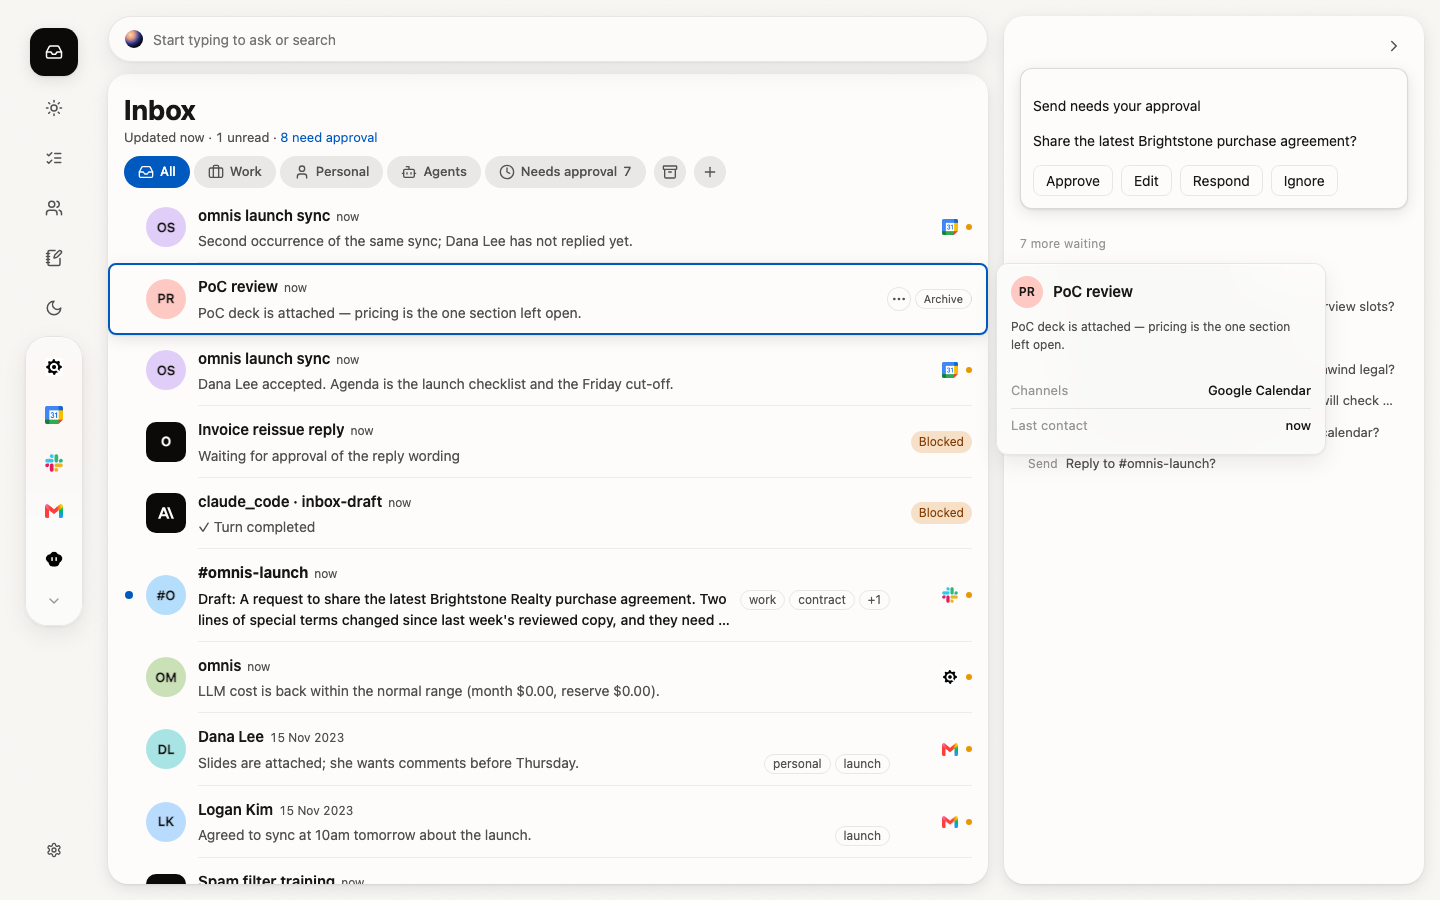
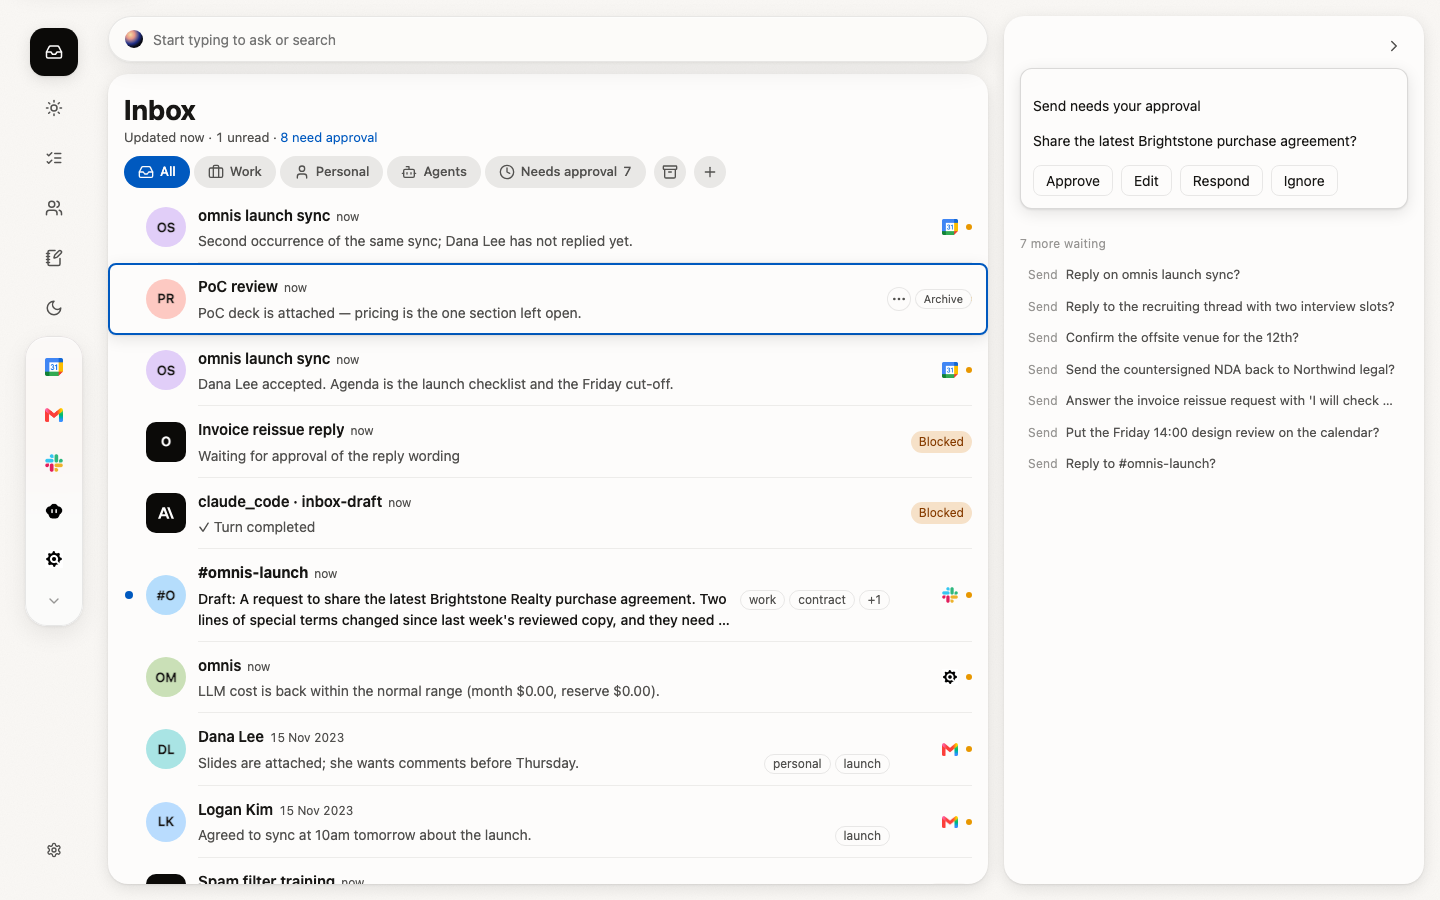
loop-r1-03: Keyboard triage: j/k move, e archives and advances
Attempt 2. Fixes the two rejections on the previous attempt, and re-verifies
the whole acceptance.

The hover card is a pointer affordance again. Radix's HoverCardTrigger opens
on `focus` as well as on `pointerenter`, so once `j`/`k` began moving the real
focus from row to row, every move that rested 400ms opened a PersonCard over
the detail pane — the approval queue a keyboard-first triager is reading,
covered by the card of the row they had just landed on. `HoverCard.Root` is
now controlled: `open` is raised by the pointer and by nothing else, and
closing is always honoured. The delays stay Radix's, so the pointer path is
unchanged. Two RTL assertions pin both halves: `j` does not render the card
(it fails without the guard — verified), and a pointer still does.

The list is reachable from a cold load in 2 interactions. The raw Tab-only
trail was 28 stops, and every one of them above the list is a real control
(twelve rail tiles, the ask bar's input and its two composer buttons, the open
panel's two tabs and its Close, the approval-queue button, seven filter pills),
so none of them can be taken out of the tab order without removing a control.
A skip link is the standard answer for content behind chrome: one Tab, one
activation, and the focus is on the listbox with the whole j/k grammar live.
It is the shell's first stop, off-screen until focused, and drawn only on the
Inbox because `#inbox-list` is the only thing it can point at.
[…]

Changed region(s): [[0.6875, 0.28, 0.9062, 0.4978], [0.0312, 0.4044, 0.0625, 0.4667], [0.0312, 0.56, 0.0625, 0.5911]]

diff --git a/tools/e2e/shots-loop-r1-03.ts b/tools/e2e/shots-loop-r1-03.ts
@@ -18,11 +18,11 @@
 //   1440  the keyboard triage itself: `j` `j` `j` then `e` `e` `e`, three distinct ids on the wire,
 //         the list three rows shorter, and the focus ring measured off the computed style of the
 //         row rather than read out of the stylesheet (NC-28).
-//   1440  Tab into the list and straight back out: the list is one stop rather than one per row plus
-//         two more on each (NC-18). The count from a cold load is logged with its whole trail, and it
-//         is dominated by the rail, the ask panel and the filter chips — chrome this story does not
-//         own. What it does own is measured instead: arriving lands on a row, and the next press
-//         leaves the list, so the presses needed to cross it no longer grow with the row count.
+//   1440  reaching the list from a cold load, in under 12 interactions (NC-18). Two walks: the raw
+//         Tab-only trail, logged stop by stop and asserted to start on the skip link, and the
+//         journey a keyboard user actually takes — one Tab to the skip link, one activation — which
+//         is the number the assertion is on. Plus the list's own stop count: one Tab in, one out,
+//         however many rows there are.
 //   390   the phone tier: a row tapped, the sheet's `‹ Inbox`, and the flat tint the selected row
 //         keeps under it (v3 §a.1).
 import { mkdirSync } from "node:fs";
@@ -125,14 +125,19 @@ const BLUR_PROBE =
 
 /** What the focus is on, in words, for the Tab trail. Every stop is logged: the number is the
  *  assertion but the trail is the evidence, and a count of 9 that got there through five rail
- *  buttons is a different result from one that got there through five rows. */
+ *  buttons is a different result from one that got there through five rows.
+ *  `inList` is `closest('[role="listbox"]')`, not `closest(".inbox-row")` — the skip link's target
+ *  is the listbox itself, and the acceptance is about reaching the list rather than about landing
+ *  on a particular row. `skipLink` is how the walk below knows it has met the shortcut. */
 const FOCUS_PROBE = `(() => {
   const el = document.activeElement;
-  if (!(el instanceof HTMLElement)) return { what: "nothing focused", inRow: false };
+  if (!(el instanceof HTMLElement)) return { what: "nothing focused", inRow: false, inList: false, skipLink: false };
   return {
     what: el.getAttribute("aria-label") || el.className || el.tagName,
     tag: el.tagName,
     inRow: el.closest(".inbox-row") !== null,
+    inList: el.closest('[role="listbox"]') !== null,
+    skipLink: el.classList.contains("skip-link"),
     threadId: el.getAttribute("data-thread-id"),
   };
 })()`;
@@ -327,52 +332,104 @@ async function main(): Promise<void> {
     }
     console.log(`  the list is down to ${after.length} rows, and no archived id is among them`);
 
-    // ---- 1440: the tab stop count -----------------------------------------------------------------
-    // NC-18: 27 Tabs from the ask bar to the pane, three per row. The assertion is on the whole
-    // journey from a cold load, and every stop is logged, because "9" reached through five rail
-    // buttons is a different answer from "9" reached through five rows.
-    console.log("1440 — Tab into the list, and straight back out");
-    const tabs = await browser.newPage({ viewport: WIDE });
-    await open(tabs);
-    let presses = 0;
-    let landed: { what: string; inRow: boolean; threadId: string | null } = {
-      what: "nothing focused",
-      inRow: false,
-      threadId: null,
-    };
-    for (; presses < 60; presses++) {
-      await tabs.keyboard.press("Tab");
-      landed = (await tabs.evaluate(FOCUS_PROBE)) as typeof landed;
-      console.log(`  tab ${presses + 1}: ${landed.what}`);
-      if (landed.inRow) break;
+    // ---- 1440: reaching the list from a cold load ------------------------------------------------
+    // NC-18's acceptance number: fewer than 12 interactions from a cold load to the focus inside the
+    // list. Two walks, both from a cold load, because the two numbers answer different questions and
+    // only one of them can be asserted.
+    //
+    // The raw walk (Tab only, nothing activated) is the honest count of what stands between a
+    // keyboard user and the list, and it is logged with every stop named. It is NOT under 12, and it
+    // cannot be made under 12 by editing the tab order: every stop above the list is a real control
+    // — twelve rail tiles, the ask bar's input and its two composer buttons, the open panel's two
+    // tabs and its Close, the approval-queue button and seven filter pills. Removing any of them
+    // takes away a control, which is a different (and worse) bug than a long tab order. The first
+    // stop of this walk has to be the skip link, or the shortcut below is not a shortcut.
+    //
+    // The journey walk is the acceptance: Tab to the skip link and activate it, which is what a
+    // keyboard user does, and the focus lands in the list. The assertion is on the interactions that
+    // journey took, and it exits non-zero if it is not under 12.
+    console.log("1440 — reaching the list from a cold load: the raw Tab trail");
+    const raw = await browser.newPage({ viewport: WIDE });
+    await open(raw);
+    await raw.keyboard.press("Tab");
+    const firstStop = (await raw.evaluate(FOCUS_PROBE)) as { what: string; skipLink: boolean };
+    if (!firstStop.skipLink) {
+      throw new Error(
+        `the first Tab lands on "${firstStop.what}", not on the skip link — there is no way past the chrome`,
+      );
     }
-    if (!landed.inRow) {
-      throw new Error(`60 Tabs never reached a row (last stop: ${landed.what})`);
+    let rawTabs = 1;
+    for (; rawTabs < 60; rawTabs++) {
+      const stop = (await raw.evaluate(FOCUS_PROBE)) as { what: string; inList: boolean };
+      console.log(`  tab ${rawTabs}: ${stop.what}`);
+      if (stop.inList) break;
+      await raw.keyboard.press("Tab");
     }
-    // Landing *on a row* is the half of NC-18 that is about what the list is made of: the row is a
-    // stop, and neither of the two controls inside it is one.
-    if (landed.threadId === null) {
-      throw new Error(`the first stop inside the list is "${landed.what}", not a row`);
-    }
+    const lastStop = (await raw.evaluate(FOCUS_PROBE)) as { inList: boolean; what: string };
+    if (!lastStop.inList)
+      throw new Error(`60 Tabs never reached the list (last: ${lastStop.what})`);
     console.log(
-      `  tab ${presses + 1} is a row (${landed.threadId}) — the chrome before it is other stories'`,
+      `  ${rawTabs} Tabs by the long way round: that is the chrome above the list, not the list.`,
     );
 
-    // ...and the half that is about how many stops the list has: the press *after* the one that
-    // arrived leaves it. The list is one stop, not one per row and two more on each of them —
+    console.log("1440 — and by the skip link");
+    const walk = await browser.newPage({ viewport: WIDE });
+    await open(walk);
+    let tabs = 0;
+    let activations = 0;
+    let landed: { what: string; inList: boolean; skipLink: boolean } = {
+      what: "nothing focused",
+      inList: false,
+      skipLink: false,
+    };
+    for (tabs = 1; tabs <= 60; tabs++) {
+      await walk.keyboard.press("Tab");
+      landed = (await walk.evaluate(FOCUS_PROBE)) as typeof landed;
+      console.log(`  tab ${tabs}: ${landed.what}`);
+      if (landed.inList) break;
+      if (landed.skipLink) {
+        await walk.keyboard.press("Enter");
+        activations += 1;
+        await walk.waitForTimeout(150);
+        landed = (await walk.evaluate(FOCUS_PROBE)) as typeof landed;
+        console.log(`  activate the skip link: ${landed.what}`);
+        if (landed.inList) break;
+      }
+    }
+    if (!landed.inList) {
+      throw new Error(`60 Tabs never reached the list (last stop: ${landed.what})`);
+    }
+    // The acceptance, and it is an assertion rather than a log: fewer than 12 interactions from a
+    // cold load, counting the activation because it is a press the user had to make.
+    const journey = tabs + activations;
+    if (journey >= 12) {
+      throw new Error(
+        `the list takes ${journey} interactions from a cold load (${tabs} Tabs + ${activations} activations), not fewer than 12 (NC-18)`,
+      );
+    }
+    console.log(`  ${journey} interactions from a cold load: ${tabs} Tab, ${activations} activate`);
+
+    // And the half of NC-18 that is about how many stops the *list* has: the press after the one
+    // that arrived leaves it. The list is one stop, not one per row and two more on each of them —
     // before this story the same walk went row → "More actions" → "Archive" → row, so the number of
-    // presses to cross the list was 3 × the number of rows (45 at this fixture's fifteen, and the
-    // finding's 27 at the eight rows it was measured with). The count no longer grows with the list,
-    // which is the property a count against a fixed fixture could never show.
-    await tabs.keyboard.press("Tab");
-    const left = (await tabs.evaluate(FOCUS_PROBE)) as { what: string; inRow: boolean };
-    console.log(`  tab ${presses + 2}: ${left.what}`);
+    // presses to cross the list was 3 × the number of rows. The count no longer grows with the list,
+    // which is the property a count against a fixed fixture could never show. The skip link lands on
+    // the listbox rather than on a row, so this is also what says the row is the stop after it.
+    await walk.keyboard.press("Tab");
+    const intoList = (await walk.evaluate(FOCUS_PROBE)) as { what: string; inRow: boolean };
+    console.log(`  the Tab after it: ${intoList.what}`);
+    if (!intoList.inRow) {
+      throw new Error(`the stop after the listbox is "${intoList.what}", not a row`);
+    }
+    await walk.keyboard.press("Tab");
+    const left = (await walk.evaluate(FOCUS_PROBE)) as { what: string; inRow: boolean };
+    console.log(`  tab ${tabs + 3}: ${left.what}`);
     if (left.inRow) {
       throw new Error(
         `a second Tab is still inside the list (${left.what}) — the list is more than one stop (NC-18)`,
       );
     }
-    console.log(`  one Tab crosses the whole list: ${presses + 1} to arrive, 1 to leave`);
+    console.log("  one Tab crosses the whole list: one to arrive, one to leave");
 
     // ---- 390: the phone tier ---------------------------------------------------------------------
     // The selected row is a flat full-width band here, not the white card the desktop tier

diff --git a/apps/desktop/test/inbox-keyboard.test.tsx b/apps/desktop/test/inbox-keyboard.test.tsx
@@ -23,6 +23,11 @@ const THREADS = [
 const TITLES = ["Row one", "Row two", "Row three", "Row four"] as const;
 const NOW = Date.UTC(2026, 8, 21, 12, 0, 0);
 
+/** InboxRow's `openDelay` on the person card. The two card tests below have to wait past it: a
+ *  card that "did not open" because the test never waited is not the same as one the focus could
+ *  not open, and only the second is the property this story added. */
+const CARD_OPEN_DELAY_MS = 400;
+
 /** Newest first, which is the order the query's `sent_at desc` hands them over and therefore the
  *  order the rows are listed in — the tests' "row 2" has to be the second row on screen. */
 function item(index: number) {
@@ -131,6 +136,17 @@ const nextFrame = async (): Promise<void> => {
     await new Promise<void>((resolve) => requestAnimationFrame(() => resolve()));
   });
 };
+
+/** Real timers, and the wait is the assertion rather than padding — see CARD_OPEN_DELAY_MS. */
+const pastCardDelay = async (): Promise<void> => {
+  await act(async () => {
+    await new Promise<void>((resolve) => setTimeout(resolve, CARD_OPEN_DELAY_MS + 120));
+  });
+};
+
+/** The hover card's own box. It is portalled to document.body, so it is looked up on the document
+ *  rather than inside the rendered container. */
+const personCard = (): Element | null => document.querySelector(".row-hover-card");
 
 describe("Inbox keyboard triage (loop-r1-03)", () => {
   it("moves the selection down with `j`, from nothing selected, and `k` back up", async () => {
@@ -254,5 +270,35 @@ describe("Inbox keyboard triage (loop-r1-03)", () => {
     for (const button of screen.queryAllByRole("button", { name: "Archive" })) {
       expect(button).toHaveAttribute("tabindex", "-1");
     }
+  });
+
+  it("does not open the row's person card when `j` moves the focus", async () => {
+    renderInbox();
+    // The regression this asserts against: Radix's HoverCardTrigger opens on `focus` as well as on
+    // `pointerenter`. Once `j` began moving the real focus from row to row, every move that rested
+    // opened a PersonCard over the detail pane — the approval queue a keyboard-first triager is
+    // reading, covered by the card of the row they had just landed on.
+    fireEvent.keyDown(window, { key: "j" });
+    await nextFrame();
+    expect(document.activeElement).toBe(rowById(THREADS[0]));
+
+    await pastCardDelay();
+    expect(document.activeElement).toBe(rowById(THREADS[0]));
+    expect(personCard()).toBeNull();
+
+    fireEvent.keyDown(window, { key: "j" });
+    await nextFrame();
+    await pastCardDelay();
+    expect(personCard()).toBeNull();
+  });
+
+  it("still opens the person card on a pointer, so the card survives the guard", async () => {
+    renderInbox();
+    // The other half of the same coin: gating the card on the pointer is only correct if the
+    // pointer still opens it. Without this, "the focus does not open the card" is also satisfied
+    // by a card that never opens at all.
+    fireEvent.pointerOver(rowById(THREADS[0]));
+    await pastCardDelay();
+    expect(personCard()).not.toBeNull();
   });
 });

diff --git a/packages/ui/src/components/inbox-row.tsx b/packages/ui/src/components/inbox-row.tsx
@@ -200,6 +200,19 @@ export function InboxRow(props: InboxRowProps) {
   const collapse = useCollapseHeight(props.leaving === true);
   const leaving = props.leaving === true && collapse.style !== undefined;
 
+  // US-D02 + loop-r1-03: the hover card is a *pointer* affordance, and since this story the list is
+  // also a keyboard surface — `j`/`k`, the arrows and Home/End move the real focus from row to row.
+  // Radix's HoverCardTrigger opens on `focus` as well as on `pointerenter`, so with the keyboard
+  // driving the focus, every move that rested 400ms popped a PersonCard over the detail pane: the
+  // queue a keyboard-first triager is reading got covered by the card of the row they just landed
+  // on. `open` is therefore controlled and only a pointer may raise it. `pointerOver` is the gate
+  // rather than a re-implementation of the timing: the delays below stay Radix's, so the pointer
+  // path behaves exactly as it did, and the focus path is simply refused (`onOpenChange(true)` with
+  // no pointer on the row). Closing is always honoured, so a pointer that leaves, an Escape and a
+  // blur all still put the card away. */
+  const [cardOpen, setCardOpen] = useState(false);
+  const pointerOver = useRef(false);
+
   // US-D08 §c.4: the swipe. Narrow-only — the tier where the rail is already a bottom bar, i.e. the
   // coarse-pointer layout — and only on a row that has something to reveal, so a row with no
   // archive action never moves. The primitive's long-press hold is off (0): the swipe has no
@@ -337,7 +350,14 @@ export function InboxRow(props: InboxRowProps) {
     // The 400ms openDelay is deliberate: rows here are short, so a pointer sweeps across many of
     // them, and with no delay the cards flash one after another (hover intent). closeDelay stays
     // short (100ms) so the card follows while moving between rows.
-    <HoverCard.Root openDelay={400} closeDelay={100}>
+    <HoverCard.Root
+      openDelay={400}
+      closeDelay={100}
+      open={cardOpen}
+      onOpenChange={(next) => {
+        if (!next || pointerOver.current) setCardOpen(next);
+      }}
+    >
       <HoverCard.Trigger asChild>
         <div
           ref={collapse.ref}
@@ -364,6 +384,15 @@ export function InboxRow(props: InboxRowProps) {
             x !== 0 && "inbox-row--revealed",
           )}
           onPointerDown={onPointerDown}
+          // The gate for the controlled card above: these run before Radix's own handlers on the
+          // same element (Radix composes ours first), so the flag is already set when the 400ms
+          // open timer fires.
+          onPointerEnter={() => {
+            pointerOver.current = true;
+          }}
+          onPointerLeave={() => {
+            pointerOver.current = false;
+          }}
           onClickCapture={swallowAfterDrag}
           onClick={activate}
           onKeyDown={(e) => {

diff --git a/apps/desktop/src/app.css b/apps/desktop/src/app.css
@@ -94,6 +94,43 @@ body {
   grid-template-columns: 76px minmax(0, 1fr) auto;
 }
 
+/* loop-r1-03/NC-18: the skip link (App.tsx). It is first in the shell's markup so it is the first
+   thing Tab reaches, and it is moved off-screen rather than `display: none` — an element that is
+   not rendered cannot hold the focus, and being focusable is the entire point of a skip link.
+   It is opaque and not glass: it lands on top of the rail's own glass plate, and glass over glass
+   kills the text (ACCENT §4.4) — the same reason the model menu above it is opaque. The recipe is
+   that popover's (hairline, `--bg-base`, `--shadow-glass`), at the 12px panel radius rather than
+   `--radius-group`, because this is a floating panel and not a card.
+   `:focus-visible` and not `:focus`: Tab is exactly the focus-visible case, and the link is never
+   reachable any other way.
+   No transition, so there is nothing here for the reduced-motion block to turn off. */
+.skip-link {
+  position: fixed;
+  z-index: 20;
+  left: 16px;
+  top: 16px;
+  padding: 8px 14px;
+  border: var(--hairline);
+  border-radius: 12px;
+  background: var(--bg-base);
+  box-shadow: var(--shadow-glass);
+  color: var(--text-primary);
+  font-size: 13px;
+  font-weight: 600;
+  text-decoration: none;
+  /* The pill's own height plus the 16px inset above it, so it clears the shell's padding. */
+  transform: translateY(calc(-100% - 32px));
+}
+
+.skip-link:focus-visible {
+  transform: none;
+  /* The house ring for a floating panel's own control — `2px solid var(--accent)`, outside the
+     border rather than inset into it (`-2px` is the *row*'s rule, and a row is a card, not a
+     pill). One ring and nothing else: the shadow above is the panel's depth, not a second ring. */
+  outline: 2px solid var(--accent);
+  outline-offset: 1px;
+}
+
 .channel-rail {
   display: flex;
   flex-direction: column;

diff --git a/apps/desktop/src/App.tsx b/apps/desktop/src/App.tsx
@@ -635,6 +635,20 @@ function Shell({ initialScreen }: { initialScreen: ShellScreen }) {
       // there is exactly one number behind both shapes.
       style={{ "--detail-width": `${detailWidth}px` } as CSSProperties}
     >
+      {/* loop-r1-03/NC-18: the keyboard route past the chrome, and the first stop in the shell.
+          The rail's twelve tiles, the ask bar and the filter pills are all real controls, so there
+          is nothing above the list that can simply be taken out of the tab order — and the price of
+          that was 27 Tabs from a cold load to the first row. A skip link is the standard answer when
+          the content sits behind chrome: one Tab, one activation, and the focus is in the list with
+          the whole j/k grammar live.
+          `href` and no click handler: the browser already moves the focus to a focusable fragment
+          target, which is the entire mechanism. It is drawn only on the Inbox, because `#inbox-list`
+          is the only thing it can point at — on any other screen it would be a link to nowhere. */}
+      {screen === "inbox" ? (
+        <a className="skip-link" href="#inbox-list">
+          Skip to inbox list
+        </a>
+      ) : null}
       <ChannelRail
         channels={connectedChannels}
         selected={railChannel}

diff --git a/apps/desktop/src/screens/Inbox.tsx b/apps/desktop/src/screens/Inbox.tsx
@@ -884,6 +884,12 @@ export function Inbox({
           // the focusable-but-invisible stop the keyboard-only session counted. Taking it out
           // leaves the list exactly one tab stop, on the selected row.
           tabIndex={-1}
+          // loop-r1-03/NC-18: the skip link's target (App.tsx). It is the listbox itself rather
+          // than the wrapper above, so the focus the link moves already lands on the element that
+          // owns the arrows and Home/End — and no new tabindex had to be invented for it, since
+          // this one is here for the opposite reason. `-1` is not a tab stop, so the count below is
+          // unchanged: the list is still one stop, and it is still the selected row.
+          id="inbox-list"
           style={{ flex: "1 1 0", minHeight: 0 }}
           data={listItems}
           // loop-r1-03: the row's identity, so React moves a row's DOM node with the row instead of
